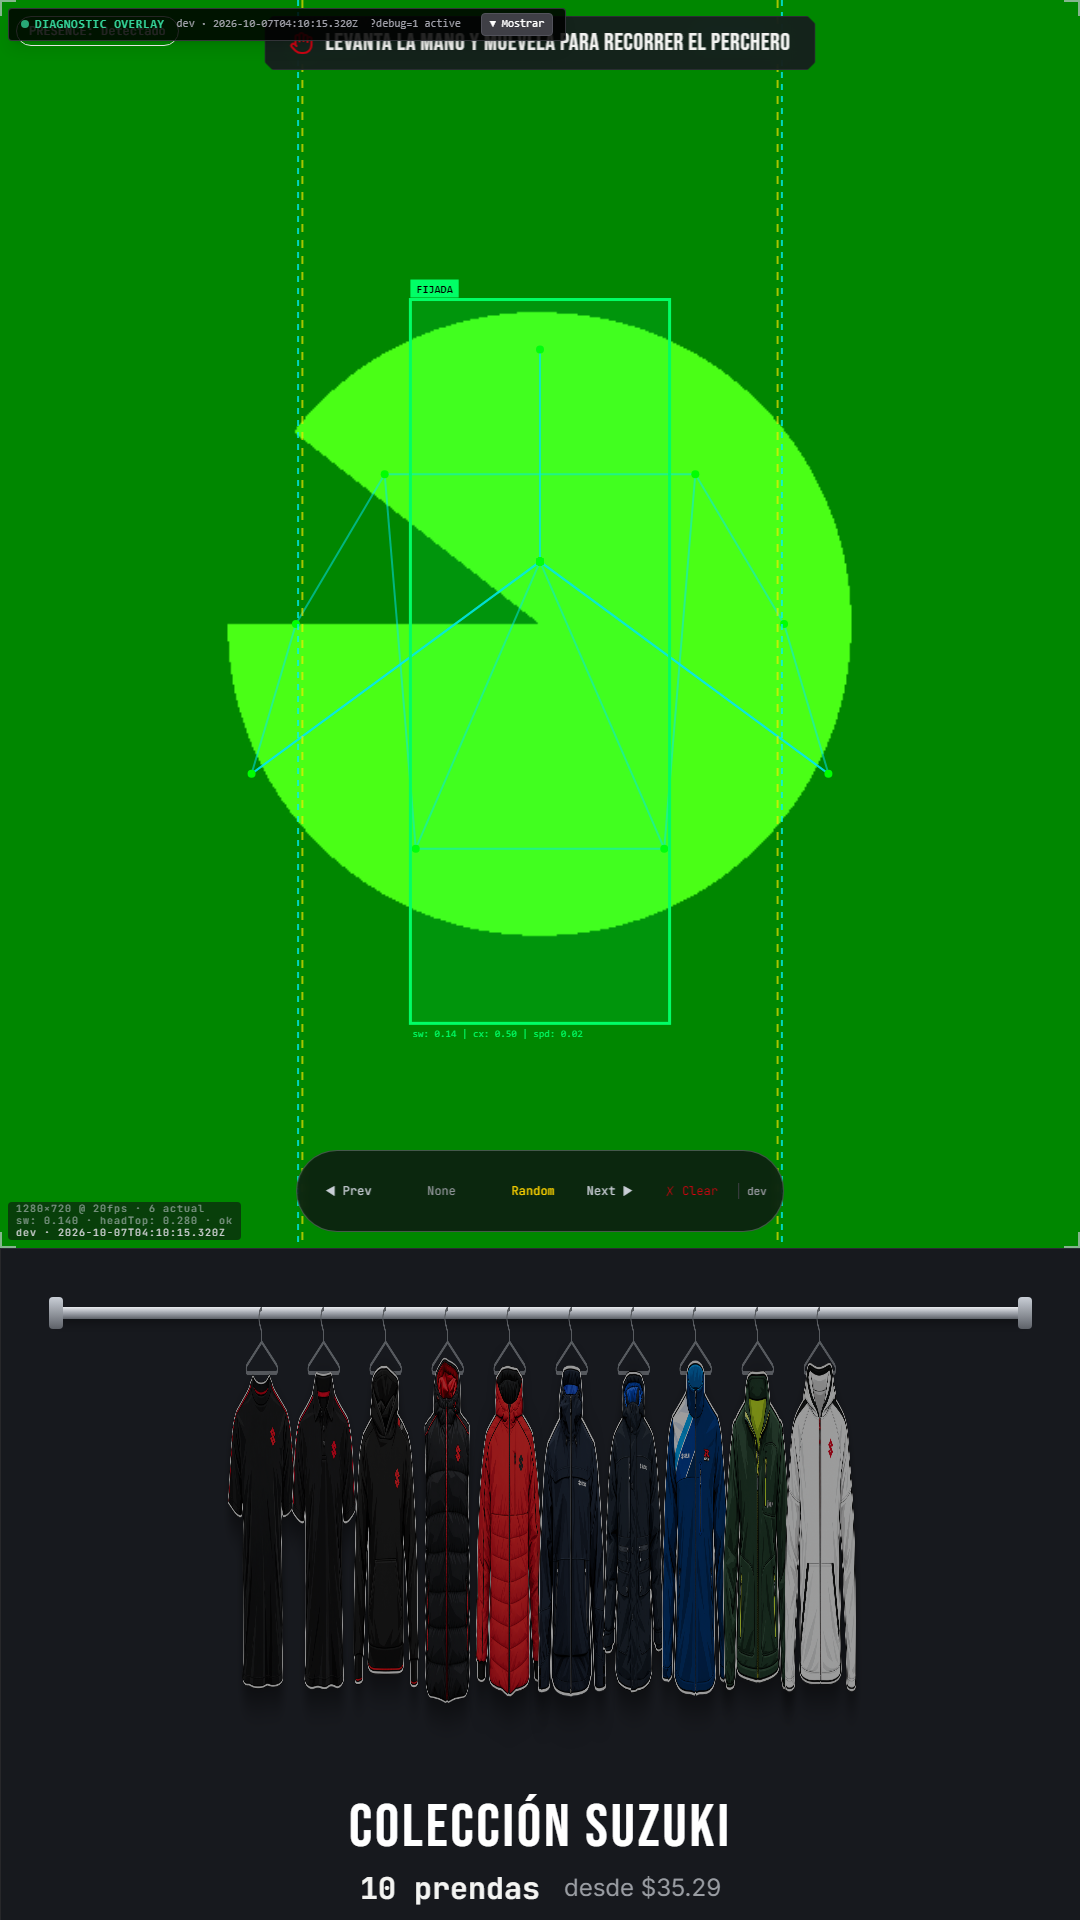
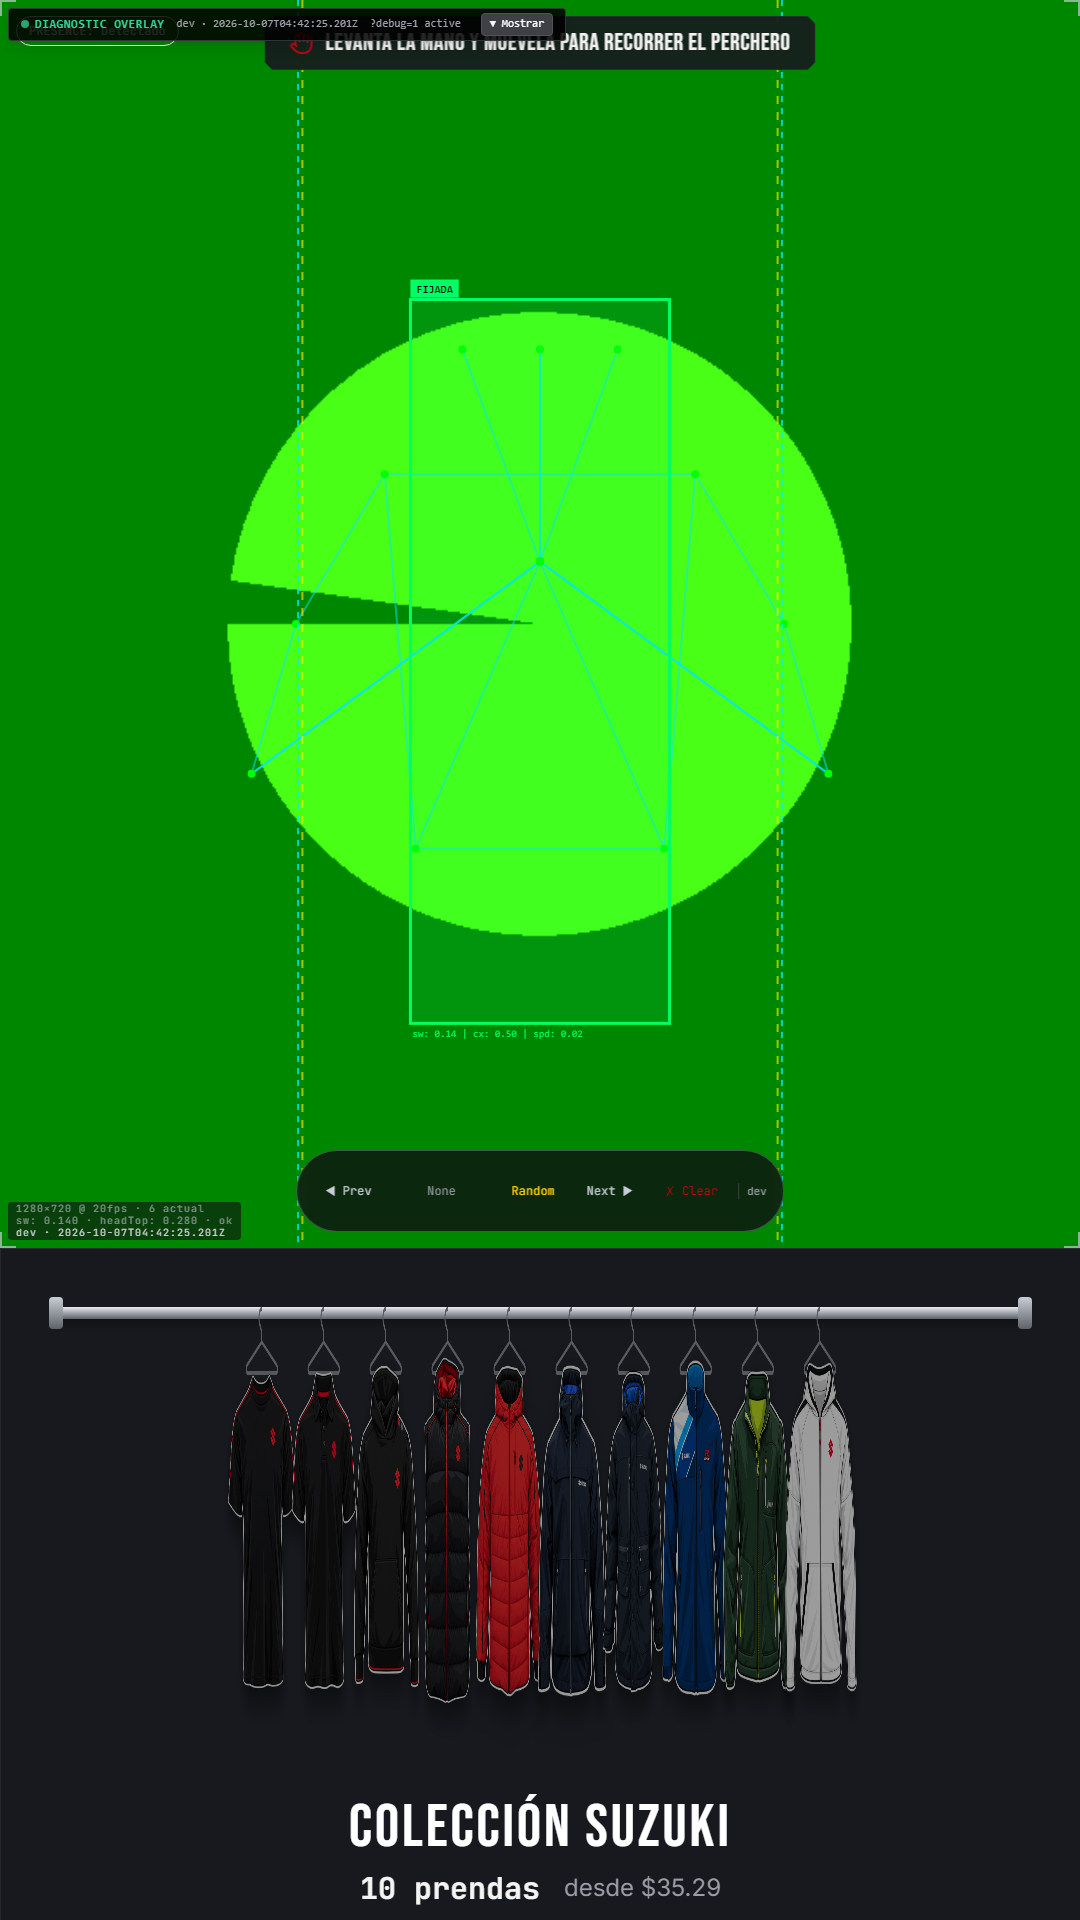
fix(kiosk): ajustes de tipos, indicacion de guia y capturas en fase 2 mano

diff --git a/scripts/capture_perchero_mano.ts b/scripts/capture_perchero_mano.ts
@@ -107,6 +107,8 @@ async function main() {
         lms.push({ x: cx, y: cy, z: 0, visibility: 0.95 });
       }
       lms[0] = { x: cx, y: 0.28, z: 0, visibility: 0.95 }; // nose
+      lms[7] = { x: cx - 0.035, y: 0.28, z: 0, visibility: 0.95 }; // left ear
+      lms[8] = { x: cx + 0.035, y: 0.28, z: 0, visibility: 0.95 }; // right ear
       lms[11] = { x: cx - sw / 2, y: 0.38, z: 0, visibility: 0.95 }; // left shoulder
       lms[12] = { x: cx + sw / 2, y: 0.38, z: 0, visibility: 0.95 }; // right shoulder
       lms[13] = { x: cx - sw / 2 - 0.04, y: 0.5, z: 0, visibility: 0.95 }; // left elbow
@@ -139,6 +141,30 @@ async function main() {
       window.dispatchEvent(new CustomEvent('kiosk-landmarks'));
       window.dispatchEvent(new CustomEvent('kiosk-active-zone'));
       window.dispatchEvent(new CustomEvent('kiosk-presence'));
+
+      // Persistent refresh interval to prevent presence timeout in headless browser
+      setInterval(() => {
+        (window as any).__landmarksOverride = lms;
+        (window as any).__activeZoneOverride = mockActiveZone;
+        (window as any).__presenceOverride = 'present';
+        window.dispatchEvent(new CustomEvent('kiosk-landmarks'));
+        window.dispatchEvent(new CustomEvent('kiosk-active-zone'));
+        window.dispatchEvent(new CustomEvent('kiosk-presence'));
+        const s = (window as any).__stores;
+        if (s) {
+          if (!s.useSizingStore.getState().hasProfile) {
+            s.useSizingStore.setState({ hasProfile: true });
+          }
+          if (s.useKioskStore.getState().state !== 'TRYON') {
+            s.useKioskStore.setState({ state: 'TRYON' });
+          }
+          if (s.useGarmentStore.getState().runtime.trackingLostSustained) {
+            s.useGarmentStore.setState((prev: any) => ({
+              runtime: { ...prev.runtime, trackingLostSustained: false },
+            }));
+          }
+        }
+      }, 100);
     });
 
     await page.waitForTimeout(1000);
@@ -207,7 +233,7 @@ async function main() {
     console.log(`Saved: ${pathA}`);
 
     // -------------------------------------------------------------
-    // b) tomada.png: después de 1.2 s: prenda volando o puesta, gancho vacío
+    // b) tomada.png: después de 1.2 s: prenda volando o puesta, gancho vacío, mano bajada (sin cursor)
     // -------------------------------------------------------------
     console.log('Capturing b) tomada.png...');
     // Wait until dwell completes and garment is selected
@@ -215,7 +241,8 @@ async function main() {
       const s = (window as any).__stores?.useGarmentStore?.getState();
       return s && s.activeGarmentId !== null;
     });
-    // Allow animation to settle
+    // Hand drops after taking garment: cursor inactive
+    await leaveSim();
     await page.waitForTimeout(600);
     const pathB = path.join(OUT_DIR, 'tomada.png');
     await page.screenshot({ path: pathB });
@@ -230,8 +257,6 @@ async function main() {
       const s = (window as any).__stores?.useHandCursorStore?.getState();
       return s && !s.isBusy;
     });
-    await leaveSim();
-    await page.waitForTimeout(400);
     await moveSim(0.388, 0.45);
     await pollCondition(() => {
       const s = (window as any).__stores?.useHandCursorStore?.getState();

diff --git a/tests/unit/rack-hand.test.tsx b/tests/unit/rack-hand.test.tsx
@@ -5,8 +5,13 @@ import fs from 'node:fs';
 import path from 'node:path';
 import type { Garment } from '@/types/garment';
 import { RackPanel } from '@/components/rack/RackPanel';
+import { KioskGuide } from '@/components/kiosk/KioskGuide';
 import { useGarmentStore } from '@/store/garment';
 import { useHandCursorStore } from '@/store/handCursor';
+import { useKioskStore } from '@/store/kiosk';
+import { useSizingStore } from '@/store/sizing';
+import { useLayoutStore } from '@/store/layout';
+import { useSelectionUiStore } from '@/store/selectionUi';
 
 const catalogJson: Garment[] = JSON.parse(
   fs.readFileSync(path.resolve(process.cwd(), 'public/catalog.json'), 'utf-8'),
@@ -168,5 +173,36 @@ describe('RackPanel - Hand Interaction Integration (tests/unit/rack-hand.test.ts
     const pausedUntilMs = useHandCursorStore.getState().pausedUntilMs;
     expect(pausedUntilMs).toBeGreaterThanOrEqual(now + 1900);
     expect(pausedUntilMs).toBeLessThanOrEqual(now + 2500);
+  });
+
+  it('con cursor inactivo y prenda puesta, la indicación es la de levanta la mano', () => {
+    sessionStorage.setItem('suzuki-hand-input', '1');
+    sessionStorage.setItem('suzuki-selection-ui', 'perchero');
+
+    useLayoutStore.setState({ mode: 'portrait' });
+    useSelectionUiStore.setState({ ui: 'perchero', source: 'session' });
+    useKioskStore.setState({ state: 'TRYON' });
+    useSizingStore.setState({ hasProfile: true });
+    useGarmentStore.setState({
+      activeGarmentId: '990F0-BKTM1',
+      catalog: catalogJson,
+    });
+    useHandCursorStore.setState({
+      cursor: {
+        active: false,
+        x: 0.5,
+        y: 0.5,
+        index: 2,
+        dwellProgress: 0,
+        gesture: 'None',
+      },
+    });
+
+    render(<KioskGuide presence="present" layout="portrait" />);
+
+    expect(
+      screen.getByText('LEVANTA LA MANO Y MUÉVELA PARA RECORRER EL PERCHERO'),
+    ).toBeDefined();
+    expect(screen.queryByText(/MANTÉN LA MANO QUIETA PARA DEVOLVERLA/i)).toBeNull();
   });
 });

diff --git a/src/components/camera/CameraStage.tsx b/src/components/camera/CameraStage.tsx
@@ -4,7 +4,7 @@ import { useCamera } from '@/hooks/useCamera';
 import { useLayout } from '@/hooks/useLayout';
 import { useDprCanvas } from '@/hooks/useDprCanvas';
 import { useFps } from '@/hooks/useFps';
-import { usePose } from '@/hooks/usePose';
+import { usePose, type UsePoseResult } from '@/hooks/usePose';
 import { usePresence, type PresenceState } from '@/hooks/usePresence';
 import { useGarmentStore } from '@/store/garment';
 import { CameraView } from './CameraView';
@@ -477,7 +477,7 @@ export function CameraStage({ isActive = true }: { isActive?: boolean }) {
         <GarmentOverlay
           videoRef={camera.videoRef}
           containerRef={overlayContainerRef}
-          landmarks={pose.landmarks}
+          landmarks={effectiveLandmarks}
           mask={pose.mask}
           layout={layout}
           active={garmentActiveWithProfile && !isLiveActive && !isLiveLoading}

diff --git a/src/components/kiosk/KioskGuide.tsx b/src/components/kiosk/KioskGuide.tsx
@@ -71,7 +71,10 @@ export function KioskGuide({
       : -1;
 
     if (!handCursor.active) {
-      handTitle = t('kiosk.hand.raiseHand', 'LEVANTA LA MANO ABIERTA PARA ELEGIR');
+      handTitle = t(
+        'kiosk.hand.raiseHand',
+        'LEVANTA LA MANO Y MUÉVELA PARA RECORRER EL PERCHERO',
+      );
     } else if (handCursor.index < 0 || handCursor.index >= catalog.length) {
       handTitle = t('kiosk.hand.moveHand', 'MUEVE LA MANO SOBRE EL PERCHERO');
     } else if (handCursor.index === activeGarmentIndex) {
